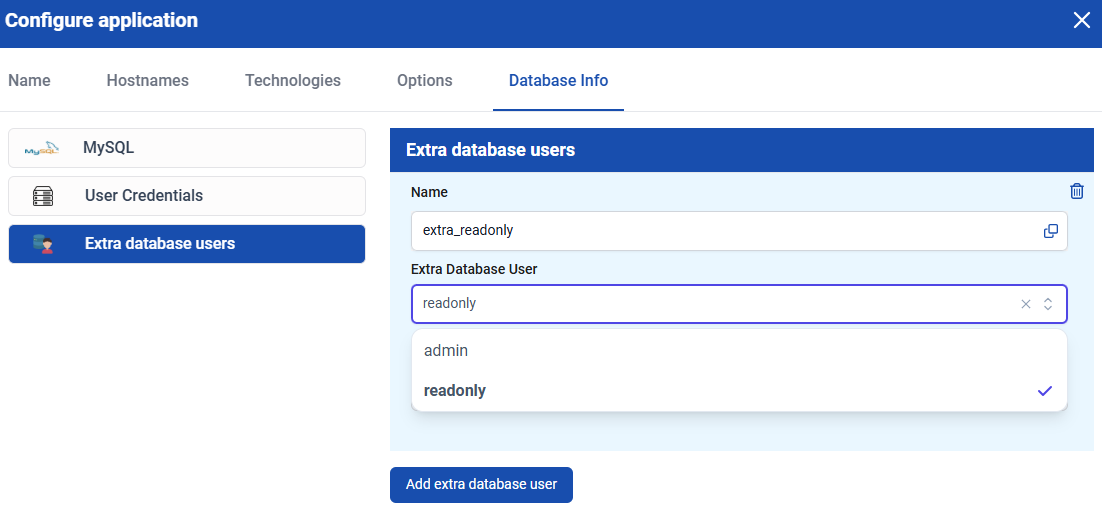
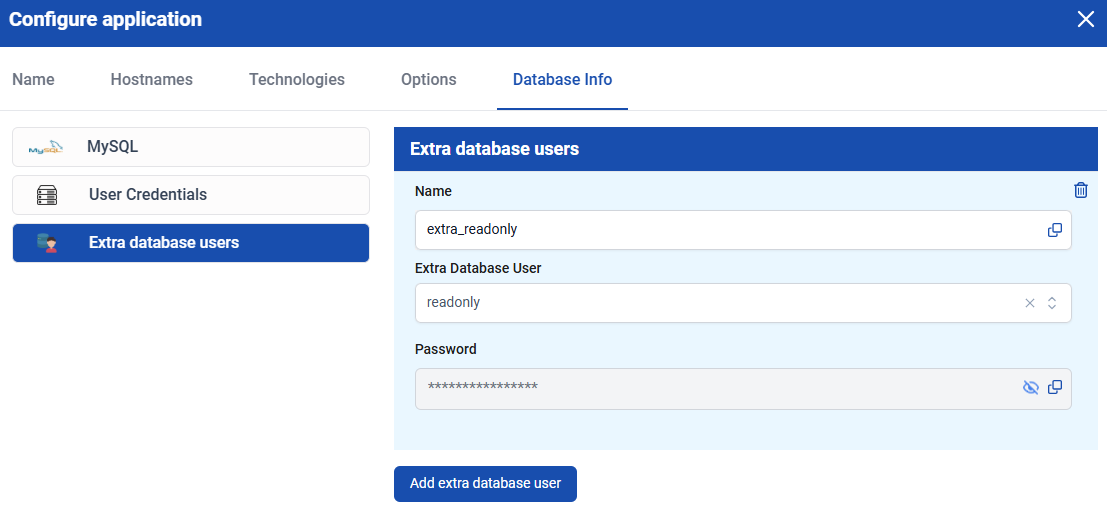
deleted some whitespaces and added extra screenshot

diff --git a/TurboStack Platform/howto_newuser.md b/TurboStack Platform/howto_newuser.md
@@ -91,17 +91,15 @@ Afterwards, once the publication is successful, you can fetch the credentials fr
 To do this, click on the gear icon next to the user and navigate to the **Database Info** tab.
 
 ![TurboStackNewApp](../img/turbostackapp/newapp/tsa_gearwheel.png)
-
 To get database credentials
 ![TurboStackNewApp](../img/turbostackapp/newapp/tsa_fetch_db_creds.png)
-
 To get user credentials
 ![TurboStackNewApp](../img/turbostackapp/newapp/tsa_fetch_user_creds.png)
 
-It is possible to add an additional database user with read-only or admin access to a database. You can also retrieve the credentials for this user.
+It is possible to add an additional database user with read-only or admin access to a databases. You can also retrieve the credentials for this user.
+![TurboStackNewApp](../img/turbostackapp/newapp/tsa_extra_db_user1.png)
 ![TurboStackNewApp](../img/turbostackapp/newapp/tsa_extra_db_user2.png)
-
-**admin**: Full access to all server databases.
+**admin**: Full access to ALL server databases.
 **read-only**: Read-only access to the specific application database.
 
 (*) Lets Encrypt certificates can only be validated of the selected hostnames already have the proper DNS settings to point them to the server. If this condition is not met, the validation will fail, and publishing will throw an error! If you cannot adjust DNS, but you do need HTTPS, you can choose a self-signed certificate and change it to Let's Encrypt whenever you're ready.
